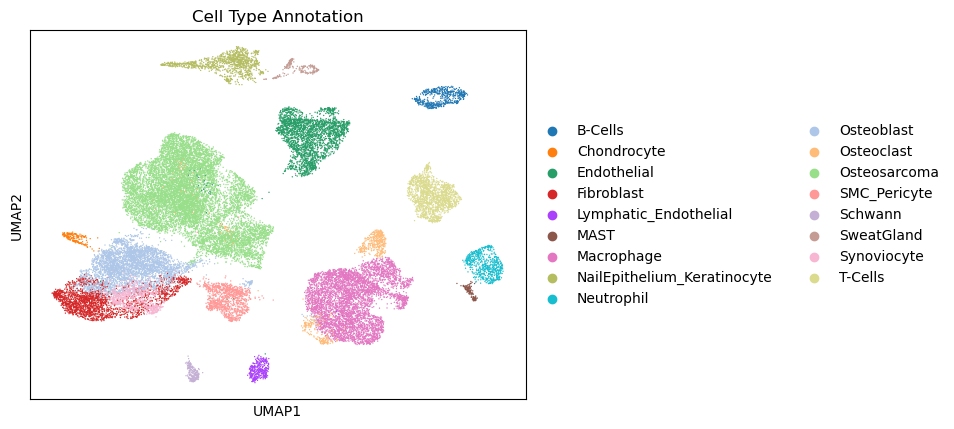
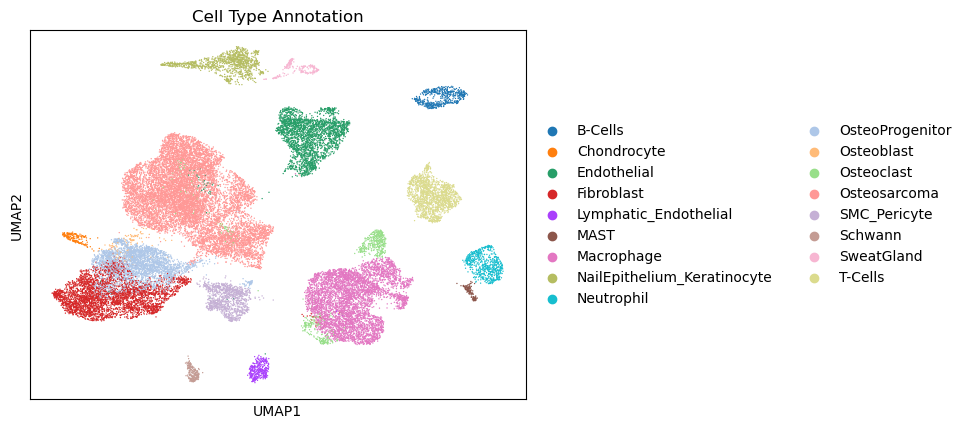
add OsteoProgenitors

diff --git a/README.md b/README.md
@@ -227,10 +227,9 @@ marker_genes = {
 
 We used the above marker genes to annotate our celltypes as follows:
 
-![](figures/umap_axt_celltype.png?v=6)
+![](figures/umap_axt_celltype.png?v=7)
 
-![](figures/umap_axt_celltypeON.png?v=6) 
-
+![](figures/umap_axt_celltypeON.png?v=7)
 
 
 ## Some stats for samples and cells 
